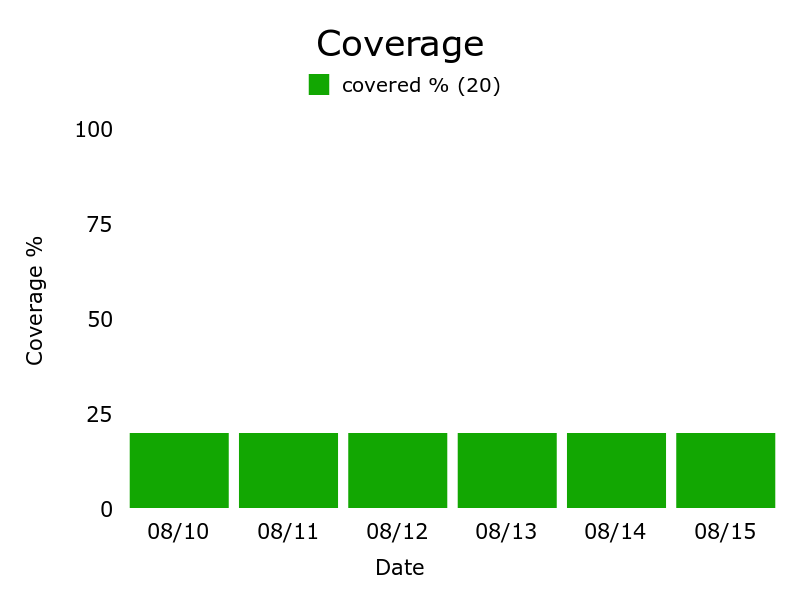
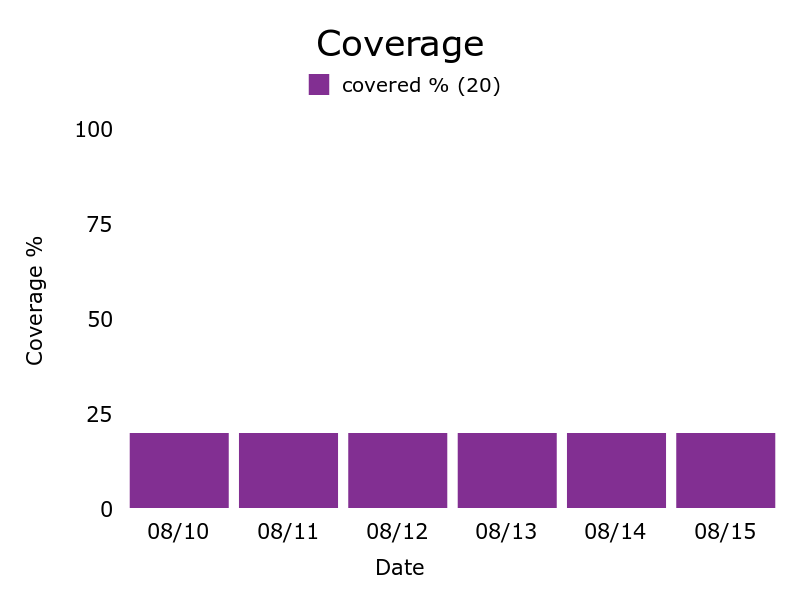
Adding metrics

Changed region(s): [[0.1562, 0.72, 0.9688, 0.87], [0.375, 0.12, 0.4375, 0.18]]

diff --git a/webpage.html b/webpage.html
@@ -1,0 +1,47 @@
+<!DOCTYPE html>
+<html lang="en">
+<head>
+  <title>Build Metrics</title>
+  <meta charset="utf-8">
+  <meta name="viewport" content="width=device-width, initial-scale=1">
+  <link rel="stylesheet" href="http://maxcdn.bootstrapcdn.com/bootstrap/3.3.7/css/bootstrap.min.css">
+  <script src="https://ajax.googleapis.com/ajax/libs/jquery/1.12.4/jquery.min.js"></script>
+  <script src="http://maxcdn.bootstrapcdn.com/bootstrap/3.3.7/js/bootstrap.min.js"></script>
+</head>
+<body>
+
+<div class="jumbotron text-center">
+  <h1>Build Metrics</h1>
+  <p>Graphs of data on the build server!</p>
+</div>
+  
+<div class="container">
+  <div class="row">
+    <div class="col-sm-4">
+      <img src="code_coverage.png" alt="Code Coverage">
+    </div>
+    <div class="col-sm-4">
+      <img src="build_times.png" alt="Build Times">
+    </div>
+    <div class="col-sm-4">
+      <img src="daily-builds.png" alt="Daily Builds">
+    </div>
+  </div>
+</div>
+
+<div class="container">
+  <div class="row">
+    <div class="col-sm-4">
+      <img src="lines_of_code.png" alt="Lines of Code">
+    </div>
+    <div class="col-sm-4">
+      <img src="localization_data.png" alt="Localization Data">
+    </div>
+    <div class="col-sm-4">
+      <img src="warning_count.png" alt="Warning Count">
+    </div>
+  </div>
+</div>
+
+</body>
+</html>

diff --git a/gen-lines-chart.rb b/gen-lines-chart.rb
@@ -26,7 +26,7 @@ g = Gruff::StackedBar.new
 g.title = "Lines of Code"
 g.labels = coverage_data.each_with_index.map {|data, i| [ i, data[0] ]}.to_h
 g.theme = {
-  :colors => ['#12a702', '#aedaa9'],
+  :colors => ['#C17B3A', '#C1BA3A'],
   :font_color => 'black',
   :background_colors => 'white'
 }

diff --git a/gen-cov-chart.rb b/gen-cov-chart.rb
@@ -32,7 +32,7 @@ g.maximum_value = 100
 g.title = "Coverage"
 g.labels = coverage_data.each_with_index.map {|data, i| [ i, data[0] ]}.to_h
 g.theme = {
-    :colors => ['#12a702', '#aedaa9'],
+    :colors => ['#822F92'],
     :font_color => 'black',
     :background_colors => 'white'
 }
